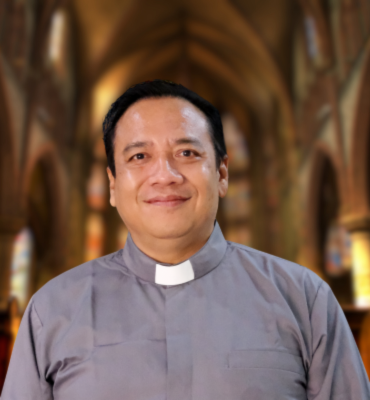
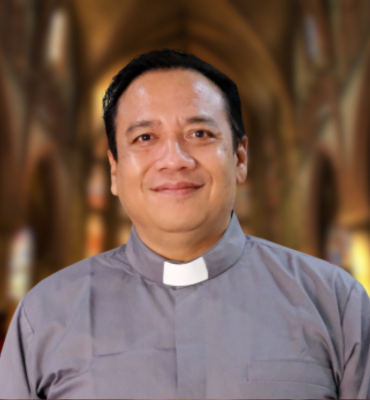
24-08

diff --git a/pages/about.vue b/pages/about.vue
@@ -174,7 +174,7 @@ YANG MEMBENTUK PRIBADI BERINTEGRITAS"
             <div class="video-popup-area">
               <div class="skill-video">
                 <client-only>
-                  <img class="image" src="/images/home/karir.png" alt="image" />
+                  <img class="image" src="/images/bg/nilai.png" alt="image" />
                   <img
                     class="image mt-60"
                     src="/images/home/karir.png"
